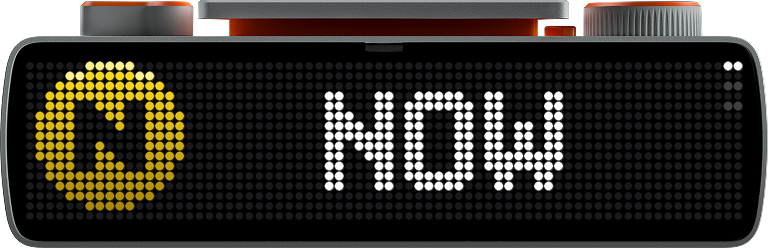
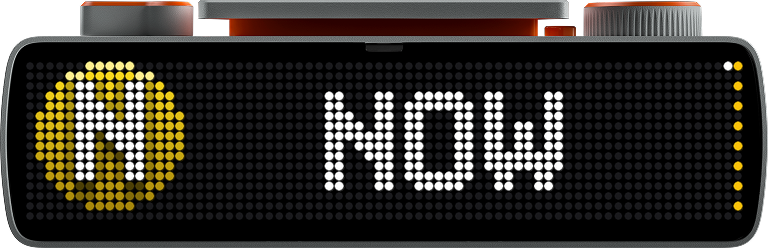
Refresh README/site/preview for the white-letter + diamond art
- New hardware captures (preview.gif, hero, cards, flashes, OG image) show
  the tuned XL white letters and the express diamonds.
- bullets strip regenerated through device_frame.py --strip (gallery look)
  and now includes the 6X/7X/FX diamonds.
- README art section documents LETTER_SIZES + the editor's resize keys;
  site copy drops the byte-for-byte caption for the new letter treatment.

diff --git a/site/index.html b/site/index.html
@@ -199,7 +199,7 @@
 <figure class="strip">
   <div class="wrap">
     <img src="img/bullets.png" alt="Generated route bullets for every NYC subway line: 1-7, A-Z, shuttles, SIR">
-    <figcaption>Every line, generated at startup in official MTA colors.</figcaption>
+    <figcaption>Every line — express diamonds included — generated at startup in official MTA colors.</figcaption>
   </div>
 </figure>
 
@@ -217,7 +217,9 @@
       <div class="card">
         <h3>Real MTA bullets</h3>
         <p>Route bullets and departure animations are generated for exactly the
-        routes your station serves, then uploaded to the device once.</p></div>
+        routes your station serves, then uploaded to the device once. White
+        letters sit on the firmware's baked drop shadow, and rush-hour
+        expresses (&lt;6&gt; &lt;7&gt; &lt;F&gt;) get their diamonds.</p></div>
       <div class="card">
         <h3>Departures at 60 fps</h3>
         <p>When a train leaves, a compiled <code>.anim</code> sweeps the line's
@@ -231,7 +233,7 @@
     </div>
     <div class="shots">
       <figure><img src="img/device_card_nq.png" alt="Yellow N bullet with NOW on the BUSY Bar"><figcaption>Next train, minute-accurate</figcaption></figure>
-      <figure><img src="img/device_flash_n.png" alt="Yellow N departure flash on the BUSY Bar"><figcaption>Hand-tuned N/Q/G art, kept byte-for-byte</figcaption></figure>
+      <figure><img src="img/device_flash_n.png" alt="Yellow N departure flash on the BUSY Bar"><figcaption>White letters over the firmware's own drop shadow</figcaption></figure>
       <figure><img src="img/device_flash_a.png" alt="Blue A departure flash on the BUSY Bar"><figcaption>Generated for every other line</figcaption></figure>
     </div>
   </div>

diff --git a/tools/make_bullets_strip.py b/tools/make_bullets_strip.py
@@ -1,15 +1,19 @@
 #!/usr/bin/env python3
 """Regenerate docs/img/bullets.png + site/img/bullets.png — every route
-bullet (express diamonds included) rendered LED-dot style off the real
-app.py pipeline. Run after any art-pipeline change.
+bullet (express diamonds included) through the real app.py pipeline, then
+LED-dot rendered by device_frame.py --strip so it matches the gallery look.
+Run after any art-pipeline or letter-tuning change.
 
     ~/busybar/app/.venv/bin/python tools/make_bullets_strip.py
 """
 import importlib.util
 import io
+import subprocess
+import sys
+import tempfile
 from pathlib import Path
 
-from PIL import Image, ImageDraw
+from PIL import Image
 
 ROOT = Path(__file__).resolve().parent.parent
 spec = importlib.util.spec_from_file_location(
@@ -20,31 +24,21 @@ spec.loader.exec_module(app)
 ORDER = ["1", "2", "3", "4", "5", "6", "6X", "7", "7X",
          "A", "C", "E", "B", "D", "F", "FX", "M", "G",
          "J", "Z", "L", "N", "Q", "R", "W", "S", "SIR"]
-S = 12          # px per LED
-GAP = 6         # px between bullets
-PAD = 5
+GAP = 3  # unlit LED columns between bullets
 
-w = len(ORDER) * 15 * S + (len(ORDER) - 1) * GAP + PAD * 2
-h = 15 * S + PAD * 2
-img = Image.new("RGBA", (w, h), (5, 5, 6, 255))
-draw = ImageDraw.Draw(img)
-
-x0 = PAD
+w = len(ORDER) * 15 + (len(ORDER) - 1) * GAP
+plain = Image.new("RGBA", (w, 15), (0, 0, 0, 0))
+x0 = 0
 for desig in ORDER:
     art = Image.open(io.BytesIO(app.make_bullet(desig))).convert("RGBA")
-    px = art.load()
-    for y in range(15):
-        for x in range(15):
-            r, g, b, a = px[x, y]
-            if not a or (r, g, b) == (0, 0, 0):
-                continue
-            cx, cy = x0 + x * S + S / 2, PAD + y * S + S / 2
-            rad = S * 0.42
-            draw.ellipse((cx - rad, cy - rad, cx + rad, cy + rad),
-                         fill=(r, g, b, 255))
-    x0 += 15 * S + GAP
+    plain.paste(art, (x0, 0), art)
+    x0 += 15 + GAP
 
-for out in (ROOT / "docs" / "img" / "bullets.png",
-            ROOT / "site" / "img" / "bullets.png"):
-    img.save(out)
-    print(f"wrote {out.relative_to(ROOT)} ({img.width}x{img.height})")
+with tempfile.NamedTemporaryFile(suffix=".png") as tmp:
+    plain.save(tmp.name)
+    for out in (ROOT / "docs" / "img" / "bullets.png",
+                ROOT / "site" / "img" / "bullets.png"):
+        subprocess.run([sys.executable, str(ROOT / "tools" / "device_frame.py"),
+                        "--strip", tmp.name, "-o", str(out)], check=True)
+        size = Image.open(out).size
+        print(f"wrote {out.relative_to(ROOT)} {size[0]}x{size[1]}")

diff --git a/README.md b/README.md
@@ -214,11 +214,15 @@ same pipeline as every other line. Everything is generated at startup by
    automatically for any station that serves their local). The letter is
    stamped in **white** over the firmware's baked drop-shadow ratios (×0.43
    below, ×0.78 beside, ×0.76 two below — the same treatment the stock
-   assets give the BUSY wordmark), positioned by the per-icon nudges in the
-   `LETTER_OFFSETS` block. Tune those visually with
-   `tools/bullet_editor.py`, which renders every icon through this exact
-   pipeline with an LED-dot preview and bakes your nudges back into the
-   source.
+   assets give the BUSY wordmark). Each icon carries its own tuning:
+   position nudges (`LETTER_OFFSETS`) and a glyph size (`LETTER_SIZES` —
+   tiny ~3×4, bold 7 px, or XL 10 px, all straight from the Bar's own
+   `busy_tiny`/`busy_bold_7`/`busy_bold_10` fonts, never rescaled; the
+   shipped tuning runs XL letters on the disks, bold inside the diamonds).
+   Tune both visually with `tools/bullet_editor.py`: every icon renders
+   through this exact pipeline with an LED-dot preview, arrow keys nudge,
+   1/2/3 resize, and it can push any candidate icon to the physical Bar
+   for a few seconds before baking the numbers back into the source.
 3. **Departure flash** — a 72×16 shaded field with vignette and rounded
    corners; locals carry the 10px glyph, expresses the diamond-outline mark
    with the small letter inside, compiled into a 111-frame sweep/hold/fade
